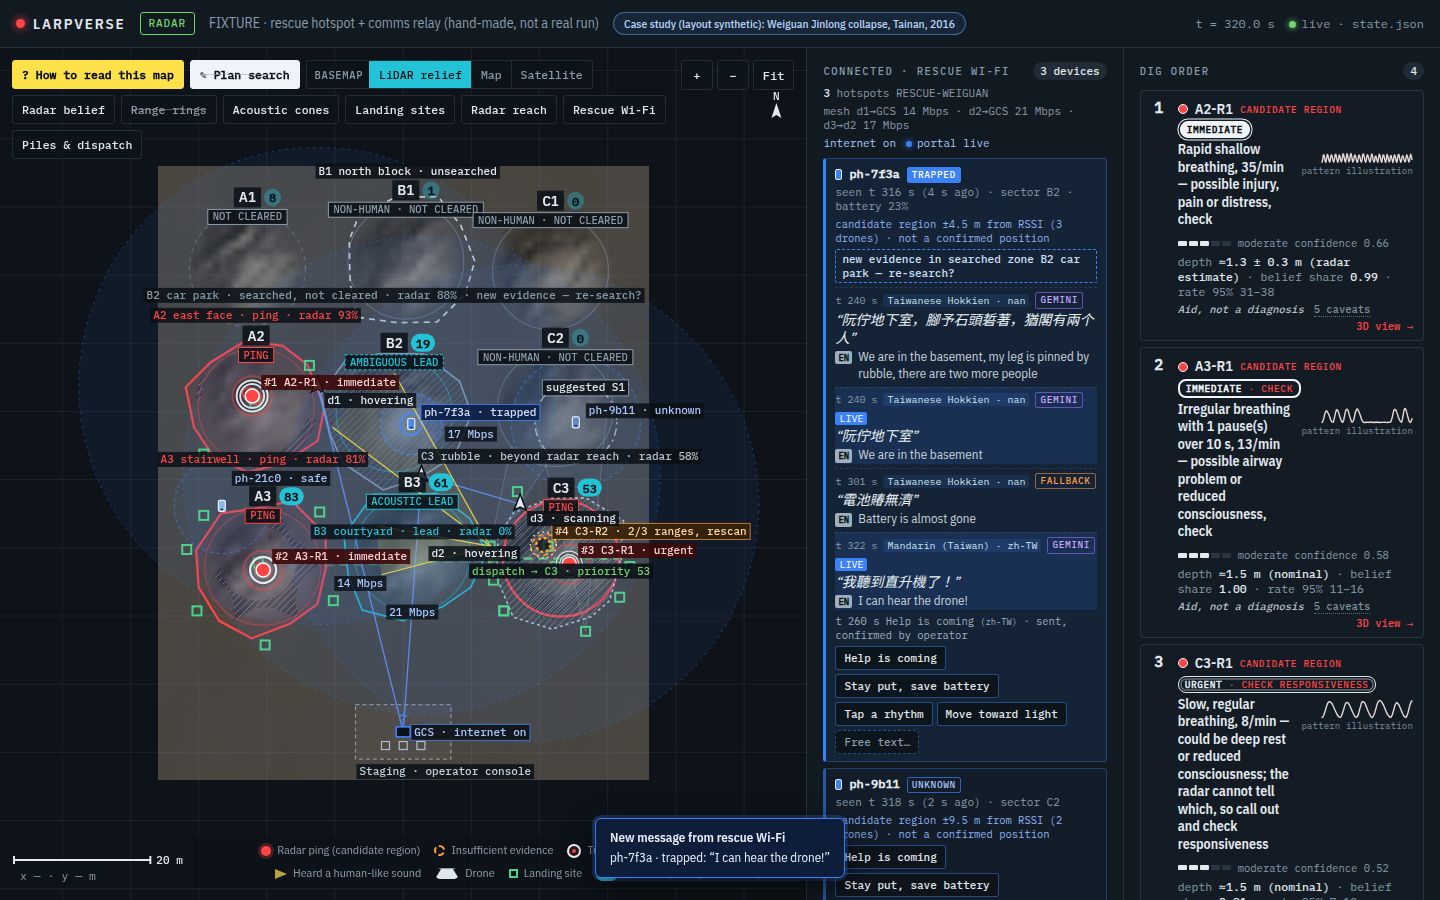
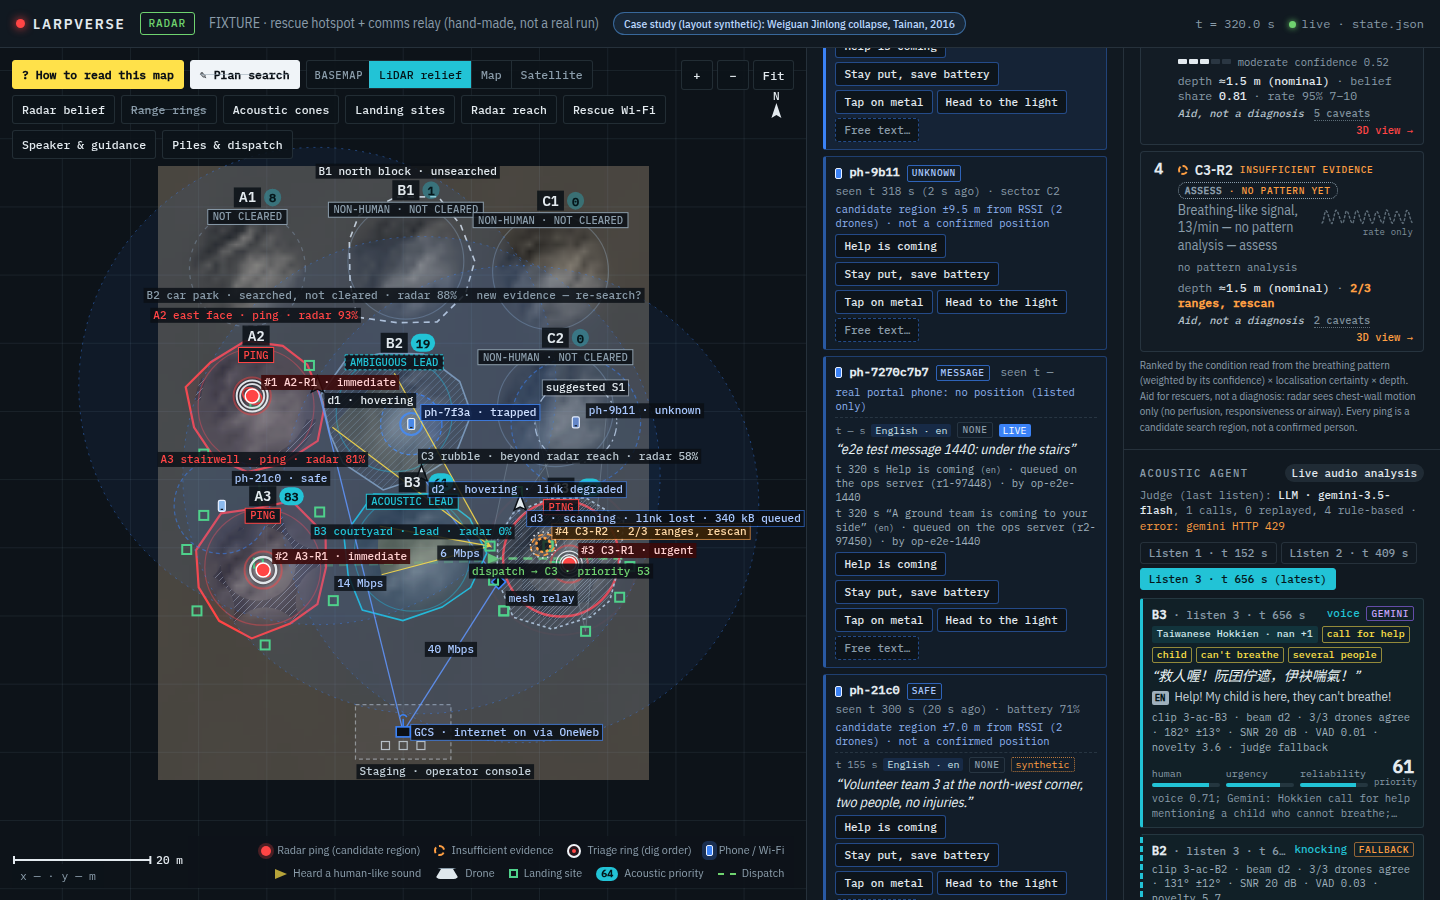
larpverse: dashboard: comms v1.4.3: template replies POST /api/comms/reply {device, template|text, lang, confirmed_by} (server keys help_coming/stay_put/tap_metal/head_to_light), free text only after Confirm, server result (queue id, status, operator) replaces the local-only log (kept only when the 
Synced from local HEAD f7b12ad.

diff --git a/larpverse/dashboard/comms.js b/larpverse/dashboard/comms.js
@@ -1,21 +1,39 @@
 // Rescue hotspot + comms relay (contracts/INTERFACES.md "Rescue hotspot and comms relay (v1.4)"). Blue = comms only.
 // Map: hotspot coverage per drone, mesh backhaul links (Mbps) to the GCS, connected-phone candidate regions (σ).
 // Rail: "Connected" panel with each device's status, messages (original + translation + who translated) and replies
-// from VETTED TEMPLATES only. Free text is held as "needs operator confirmation". Replies are recorded to a local log
-// in this browser (no send endpoint yet). Live: polls GET /api/portal when the ops server offers it and toasts new
-// submissions. A phone position is a consent-based candidate region from multi-drone RSSI, never a confirmed position.
+// from VETTED TEMPLATES only, sent with POST /api/comms/reply (ops server, localhost only). Free text is held as
+// "needs operator confirmation" and is sent only after Confirm (with confirmed_by). Without the ops server a reply is
+// kept in a local log and says so. Live: polls GET /api/portal and toasts new submissions; real portal phones
+// (devices[].live) have no position and are listed only. A phone position is a consent-based candidate region from
+// multi-drone RSSI, never a confirmed position; phone evidence raises a LEAD, never a ping.
 
 export const BLUE = '#3b82f6';
-const LS = 'larpverse.comms.replies.v1', POLL_MS = 3000, RETRY_MS = 60000;
+const LS = 'larpverse.comms.replies.v1', LS_OP = 'larpverse.operator.name', POLL_MS = 2000, RETRY_MS = 60000;
 const esc = s => String(s ?? '').replace(/[&<>"]/g, c => ({ '&': '&amp;', '<': '&lt;', '>': '&gt;', '"': '&quot;' }[c]));
 const lsGet = () => { try { return JSON.parse(localStorage.getItem(LS) || '[]'); } catch { return []; } };
+const lsGet2 = k => { try { return localStorage.getItem(k) || ''; } catch { return ''; } };
+const lsSet2 = (k, v) => { try { localStorage.setItem(k, v); } catch { /* private mode */ } };
 const lsSet = v => { try { localStorage.setItem(LS, JSON.stringify(v.slice(-200))); } catch { /* private mode */ } };
-export const TEMPLATES = {
-  help_coming: { label: 'Help is coming', en: 'Help is coming. Rescuers know where you are.' },
-  stay_put_save_battery: { label: 'Stay put, save battery', en: 'Stay where you are if it is safe. Save battery: dim the screen and reply only when asked.' },
-  tap_rhythm: { label: 'Tap a rhythm', en: 'If you can, tap 3 times on metal or concrete, then wait. Repeat every minute.' },
-  move_to_light: { label: 'Move toward light', en: 'Only if you can move safely: move toward light or open air, then stay still.' },
+export const TEMPLATES = {   // keys and English from sim/comms.REPLY_TEMPLATES (the server renders every language)
+  help_coming: { label: 'Help is coming', en: 'Help is coming. Your message reached the rescue team.' },
+  stay_put: { label: 'Stay put, save battery', en: 'Stay where you are and conserve your phone battery.' },
+  tap_metal: { label: 'Tap on metal', en: 'If you can, tap a rhythm on metal or a pipe so we can hear you.' },
+  head_to_light: { label: 'Head to the light', en: 'If you can move safely, head toward the blue light or the exit.' },
 };
+const REPLY_LANGS = ['zh-TW', 'nan-TW', 'en', 'id', 'vi', 'tl'];
+const replyLang = l => { const c = String(l || '').trim(); if (REPLY_LANGS.includes(c)) return c; const b = c.toLowerCase().split('-')[0]; return { zh: 'zh-TW', cmn: 'zh-TW', nan: 'nan-TW', fil: 'tl' }[b] || (REPLY_LANGS.includes(b) ? b : 'en'); };
+const UPLINK = { oneweb: 'OneWeb', lte: 'LTE', starlink: 'Starlink' };
+export const uplinkText = bh => (!bh ? '' : bh.internet === false || bh.uplink === null && bh.internet == null ? 'internet off (local only)' : `internet ${bh.internet === false ? 'off' : 'on'}${bh.uplink ? ' via ' + (UPLINK[bh.uplink] || bh.uplink) : ''}`);
+// drones[].link chip (fleet rows) and the comms evidence chip on pile rows
+export function linkChip(d) {
+  if (!d?.link) return '';
+  const q = d.queued_kb ? ` · ${Math.round(d.queued_kb)} kB queued` : '';
+  return `<span class="lnk l-${esc(d.link)}" title="mesh link ${esc(d.link)}${d.last_link_t != null ? ', last contact t ' + Math.round(d.last_link_t) + ' s' : ''}${q ? '; data held on board, forwarded when the link is back' : ''}">link ${esc(d.link)}${esc(q)}</span>`;
+}
+export function evidenceChip(p) {
+  const e = p?.comms_evidence; if (!e) return '';
+  return `<span class="cev" title="A phone on the rescue Wi-Fi${e.t != null ? ' at t ' + Math.round(e.t) + ' s' : ''}${e.sigma_m != null ? ', ±' + (+e.sigma_m).toFixed(0) + ' m' : ''}. Phone evidence raises a lead only, never a ping: a buried phone nearby and a phone in the open further away can look alike.">phone ${esc(e.status || 'connected')} · ${esc(e.device || '')} · lead</span>`;
+}
 const STATUS = { trapped: ['trapped', 'Says they are trapped'], safe: ['safe', 'Says they are safe'], unknown: ['unknown', 'No answer yet'] };
 const LANG = { zh: 'Mandarin', 'zh-tw': 'Mandarin (Taiwan)', nan: 'Taiwanese Hokkien', en: 'English', id: 'Indonesian', vi: 'Vietnamese', tl: 'Tagalog', th: 'Thai', ja: 'Japanese' };
 const lname = c => (c ? LANG[String(c).toLowerCase()] || LANG[String(c).toLowerCase().split('-')[0]] || c : '');
@@ -34,13 +52,14 @@ export const devicesIn = (S, zone) => (S?.comms?.devices || []).filter(d => d.es
 
 export function createComms(app) {
   // app: { S(), toPx, scale(), ctx(), qLabel, font, $, draw() }
-  const C = { log: lsGet(), live: null, liveSubs: [], seen: new Set(), first: true, pollT: null, open: new Set(), draft: {} };
+  const C = { err: {}, log: lsGet(), live: null, liveSubs: [], seen: new Set(), first: true, pollT: null, open: new Set(), draft: {} };
   const $ = app.$;
 
   // ---------- map ----------
   function nodeXY(S, id) {
     const cm = S.comms || {};
     if (id === 'gcs') return cm.backhaul?.gcs_xy || S.staging?.xy || null;
+    if (id === 'relay') return cm.backhaul?.relay_xy || null;
     const dr = (S.drones || []).find(d => d.id === id); if (dr) return [dr.pose[0], dr.pose[1]];
     const h = (cm.hotspots || []).find(h => h.drone_id === id); return h?.xy || null;
   }
@@ -65,11 +84,17 @@ export function createComms(app) {
       const [x, y] = app.toPx(...g);
       ctx.save(); ctx.fillStyle = '#0b1016'; ctx.strokeStyle = BLUE; ctx.lineWidth = 1.6; ctx.fillRect(x - 7, y - 5, 14, 10); ctx.strokeRect(x - 7, y - 5, 14, 10);
       ctx.beginPath(); ctx.moveTo(x, y - 5); ctx.lineTo(x, y - 13); ctx.stroke(); ctx.beginPath(); ctx.arc(x, y - 13, 4, Math.PI * 1.15, Math.PI * 1.85); ctx.stroke(); ctx.restore();
-      const net = cm.backhaul?.internet;
-      app.qLabel(`GCS · internet ${net ? 'on' : 'off'}`, x + 11, y + 4, net ? '#a9c8ff' : '#8a9caa', 'rgba(11,16,22,0.88)', 3, net ? 'rgba(59,130,246,0.7)' : 'rgba(138,156,170,0.5)');
+      const net = cm.backhaul?.internet !== false && !(cm.backhaul?.uplink === null && cm.backhaul?.internet == null);
+      app.qLabel(`GCS · ${uplinkText(cm.backhaul)}`, x + 11, y + 4, net ? '#a9c8ff' : '#8a9caa', 'rgba(11,16,22,0.88)', 3, net ? 'rgba(59,130,246,0.7)' : 'rgba(138,156,170,0.5)');
+    }
+    const rl = cm.backhaul?.relay_xy;
+    if (rl) {
+      const [x, y] = app.toPx(...rl);
+      ctx.save(); ctx.fillStyle = '#0b1016'; ctx.strokeStyle = BLUE; ctx.lineWidth = 1.6; ctx.beginPath(); ctx.moveTo(x, y - 7); ctx.lineTo(x + 7, y); ctx.lineTo(x, y + 7); ctx.lineTo(x - 7, y); ctx.closePath(); ctx.fill(); ctx.stroke(); ctx.restore();
+      app.qLabel('mesh relay', x + 10, y + 4, '#a9c8ff', 'rgba(11,16,22,0.86)', 5);
     }
     for (const d of cm.devices || []) {
-      if (!d.est_xy) continue;
+      if (!d.est_xy || d.live) continue;      // real portal phones carry no RSSI position: list only
       const [x, y] = app.toPx(...d.est_xy), st = d.status || 'unknown', trapped = st === 'trapped';
       const r = (d.est_sigma_m || 5) * sc;
       ctx.save(); ctx.beginPath(); ctx.arc(x, y, Math.max(6, r), 0, Math.PI * 2); ctx.fillStyle = trapped ? 'rgba(59,130,246,0.14)' : 'rgba(59,130,246,0.06)'; ctx.fill();
@@ -98,7 +123,7 @@ export function createComms(app) {
   }
   function render(force = false) {
     const S = app.S(), sec = $('secComms'); if (!sec) return;
-    const host = $('comms'), ae = document.activeElement;
+    const host = $('secComms'), ae = document.activeElement;
     if (host && host.contains(ae) && /INPUT|TEXTAREA|SELECT/.test(ae.tagName) && !force) { deferred = true; return; }
     deferred = false;
     const cm = S?.comms, ds = devices(S);
@@ -107,7 +132,8 @@ export function createComms(app) {
     const bh = cm?.backhaul, links = (bh?.links || []).map(l => `${esc(l.from)}→${esc(l.to === 'gcs' ? 'GCS' : l.to)}${l.mbps != null ? ' ' + (+l.mbps).toFixed(0) + ' Mbps' : ''}`).join(' · ');
     const hs = (cm?.hotspots || []).filter(h => h.on !== false);
     $('commsMeta').innerHTML = `${hs.length ? `<span><b>${hs.length}</b> hotspot${hs.length > 1 ? 's' : ''} ${esc(hs[0].ssid || '')}</span>` : ''}${links ? `<span>mesh ${links}</span>` : ''}`
-      + `${bh ? `<span class="net ${bh.internet ? 'on' : ''}">internet ${bh.internet ? 'on' : 'off'}</span>` : ''}`
+      + `${bh ? `<span class="net ${bh.internet !== false ? 'on' : ''}">${esc(uplinkText(bh))}</span>` : ''}${bh?.relay_xy ? '<span>relay node dropped</span>' : ''}`
+      + `<label class="opn">operator <input data-f="op" maxlength="40" value="${esc(lsGet2(LS_OP))}" placeholder="name"></label>`
       + `<span class="live ${C.live ? 'on' : ''}" title="${C.live ? 'Polling GET /api/portal' : 'No /api/portal on this server: showing state.json only'}">${C.live ? 'portal live' : 'portal feed off'}</span>`;
     $('comms').innerHTML = ds.length ? ds.map(d => card(S, d)).join('') : '<p class="empty">No phone has joined the rescue Wi-Fi yet.</p>';
   }
@@ -116,34 +142,61 @@ export function createComms(app) {
     const reps = [...(d.replies || []).map(r => ({ ...r, src: 'state' })), ...C.log.filter(r => r.device === d.id)].sort((a, b) => (a.t ?? 0) - (b.t ?? 0));
     const nDr = new Set((d.rssi || []).map(r => r.drone_id)).size;
     return `<div class="dev s-${esc(st)}" data-dev="${esc(d.id)}">
-      <div class="dh"><i class="ph"></i><b>${esc(d.id)}</b><span class="chip st">${esc(STATUS[st]?.[0] || st)}</span>
+      <div class="dh"><i class="ph"></i><b>${esc(d.id)}</b><span class="chip st">${esc(STATUS[st]?.[0] || st)}</span>${d.live ? '<span class="chip lv" title="A real phone on the demo portal: no RSSI position">live portal</span>' : ''}
         <span class="mut">seen t ${d.last_seen != null ? Math.round(d.last_seen) + ' s' : '—'}${esc(ago(S, d.last_seen))}${d.pile ? ' · sector ' + esc(d.pile) : ''}${d.battery_pct != null ? ' · battery ' + Math.round(d.battery_pct) + '%' : ''}</span></div>
-      ${d.est_xy ? `<div class="pos">candidate region ±${(+(d.est_sigma_m ?? 0)).toFixed(1)} m from RSSI${nDr ? ` (${nDr} drone${nDr > 1 ? 's' : ''})` : ''} · not a confirmed position</div>` : d.portal_only ? '<div class="pos">portal submission only: no position yet</div>' : ''}
+      ${d.est_xy && !d.live ? `<div class="pos">candidate region ±${(+(d.est_sigma_m ?? 0)).toFixed(1)} m from RSSI${nDr ? ` (${nDr} drone${nDr > 1 ? 's' : ''})` : ''} · not a confirmed position</div>` : d.live || d.portal_only ? '<div class="pos">real portal phone: no position (listed only)</div>' : ''}
       ${ev.map(e => `<div class="ev">new evidence in searched ${e.kind} ${esc(e.name)} — re-search?</div>`).join('')}
-      ${ms.map(m => `<div class="msg${m.live ? ' new' : ''}"><div class="mh"><span class="t">t ${m.t != null ? Math.round(m.t) : '—'} s</span>${m.lang ? `<span class="lg">${esc(lname(m.lang))} · ${esc(m.lang)}</span>` : ''}<span class="by ${m.by === 'gemini' ? 'llm' : m.by === 'fallback' ? 'fb' : ''}" title="translation by ${esc(m.by || 'none')}">${esc(m.by === 'gemini' ? 'Gemini' : m.by || 'none')}</span>${m.live ? '<span class="nw">live</span>' : ''}</div>
+      ${ms.map(m => `<div class="msg${m.live ? ' new' : ''}"><div class="mh"><span class="t">t ${m.t != null ? Math.round(m.t) : '—'} s</span>${m.lang ? `<span class="lg">${esc(lname(m.lang))} · ${esc(m.lang)}</span>` : ''}<span class="by ${m.by === 'gemini' ? 'llm' : m.by === 'fallback' ? 'fb' : ''}" title="translation by ${esc(m.by || 'none')}">${esc(m.by === 'gemini' ? 'Gemini' : m.by || 'none')}</span>${m.synthetic ? '<span class="syn" title="simulated message">synthetic</span>' : ''}${m.live ? '<span class="nw">live</span>' : ''}</div>
           <q${m.lang ? ` lang="${esc(m.lang)}"` : ''}>${esc(m.text)}</q>${m.translation && m.translation !== m.text ? `<div class="tr"><span>EN</span>${esc(m.translation)}</div>` : ''}</div>`).join('')}
-      ${reps.length ? `<div class="reps">${reps.map(r => `<div class="rep ${r.pending ? 'pend' : ''}"><span>t ${r.t != null ? Math.round(r.t) : '—'} s</span> ${r.template ? esc(TEMPLATES[r.template]?.label || r.template) : `“${esc(r.text)}”`}${r.lang ? ` <small>(${esc(r.lang)})</small>` : ''} · ${r.pending ? '<b>needs operator confirmation</b> <button class="btn sm" data-act="confirm" data-k="' + esc(r.k) + '">Confirm</button>' : r.src === 'state' ? `sent${r.confirmed_by ? ', confirmed by ' + esc(r.confirmed_by) : ''}` : 'recorded locally (not sent: no send endpoint yet)'}</div>`).join('')}</div>` : ''}
+      ${reps.length ? `<div class="reps">${reps.map(r => `<div class="rep ${r.pending ? 'pend' : ''} ${r.error ? 'err' : ''}" title="${esc(r.text || '')}"><span>t ${r.t != null ? Math.round(r.t) : '—'} s</span> ${r.template ? esc(TEMPLATES[r.template]?.label || r.template) : `“${esc(r.text)}”`}${r.lang ? ` <small>(${esc(r.lang)})</small>` : ''} · ${repState(r)}</div>`).join('')}</div>` : ''}
+      ${C.err[d.id] ? `<div class="rerr">${esc(C.err[d.id])}</div>` : ''}
       <div class="tpl">${Object.entries(TEMPLATES).map(([k, t]) => `<button class="btn sm" data-act="tpl" data-t="${k}" title="${esc(t.en)}${lang ? ' (sent in ' + esc(lname(lang)) + ')' : ''}">${esc(t.label)}</button>`).join('')}
         <button class="btn sm ghost" data-act="free">Free text…</button></div>
       ${C.open.has(d.id) ? `<div class="free"><input aria-label="Free-text reply" maxlength="200" placeholder="Free text: held until an operator confirms" value="${esc(C.draft[d.id] || '')}"><button class="btn sm" data-act="hold">Hold for confirmation</button></div>` : ''}
     </div>`;
   }
+  function repState(r) {
+    if (r.pending) return `<b>needs operator confirmation</b> <button class="btn sm" data-act="confirm" data-k="${esc(r.k)}">Confirm &amp; send</button>`;
+    if (r.src === 'state') return `sent${r.confirmed_by ? ', confirmed by ' + esc(r.confirmed_by) : ''}`;
+    if (r.sending) return 'sending…';
+    if (r.server) return `${esc(r.server.status || 'queued')} on the ops server (${esc(r.server.id || '')}) · by ${esc(r.server.confirmed_by || r.confirmed_by || '')}`;
+    if (r.error) return `<b>not sent</b>: ${esc(r.error)}`;
+    return 'kept locally: ops server unreachable (python3 scripts/serve.py)';
+  }
+  const langOf = dev => { const S = app.S(); return replyLang([...msgsOf((S?.comms?.devices || []).find(d => d.id === dev) || { id: dev })].reverse().find(m => m.lang)?.lang); };
+  async function send(r) {
+    const op = lsGet2(LS_OP).trim();
+    if (!op) { C.err[r.device] = 'Enter your operator name at the top of this panel: every reply is attributed.'; render(true); return false; }
+    r.sending = true; r.error = null; r.confirmed_by = op; C.err[r.device] = ''; lsSet(C.log); render(true);
+    const body = { device: r.device, lang: r.lang, confirmed_by: op, ...(r.template ? { template: r.template } : { text: r.text }) };
+    try {
+      const res = await fetch('/api/comms/reply', { method: 'POST', headers: { 'Content-Type': 'application/json' }, body: JSON.stringify(body) });
+      const doc = await res.json().catch(() => ({}));
+      r.sending = false;
+      if (!res.ok) { r.error = doc.error || `HTTP ${res.status}`; }
+      else { r.server = { id: doc.id, status: doc.status, confirmed_by: doc.confirmed_by }; if (doc.text) r.text = doc.text; if (doc.t != null) r.t = doc.t; }
+    } catch { r.sending = false; r.offline = true; }
+    lsSet(C.log); render(true); return true;
+  }
   function record(dev, r) {
-    const S = app.S(); const lang = [...msgsOf((S?.comms?.devices || []).find(d => d.id === dev) || { id: dev })].reverse().find(m => m.lang)?.lang || null;
-    C.log.push({ k: Math.random().toString(36).slice(2, 9), device: dev, t: S?.t ?? null, lang, ...r }); lsSet(C.log); render();
+    const S = app.S();
+    const item = { k: Math.random().toString(36).slice(2, 9), device: dev, t: S?.t ?? null, lang: langOf(dev), ...r };
+    C.log.push(item); lsSet(C.log); render(true);
+    if (!item.pending) send(item);
   }
   let deferred = false;
   function bind() {
-    $('comms').addEventListener('focusout', () => setTimeout(() => { if (deferred) render(); }, 0));
+    $('secComms').addEventListener('focusout', () => setTimeout(() => { if (deferred) render(); }, 0));
     $('comms').addEventListener('click', e => {
       const b = e.target.closest('[data-act]'); if (!b) return; const dev = b.closest('[data-dev]')?.dataset.dev;
       const a = b.dataset.act;
-      if (a === 'tpl') record(dev, { template: b.dataset.t, confirmed_by: 'operator' });
+      if (a === 'tpl') record(dev, { template: b.dataset.t });
       else if (a === 'free') { C.open.has(dev) ? C.open.delete(dev) : C.open.add(dev); render(true); }
       else if (a === 'hold') { const v = (b.parentElement.querySelector('input')?.value || '').trim(); if (!v) return; C.draft[dev] = ''; C.open.delete(dev); record(dev, { text: v, pending: true }); render(true); }
-      else if (a === 'confirm') { const r = C.log.find(r => r.k === b.dataset.k); if (r) { r.pending = false; r.confirmed_by = 'operator'; lsSet(C.log); render(); } }
+      else if (a === 'confirm') { const r = C.log.find(r => r.k === b.dataset.k); if (r) { r.pending = false; send(r).then(ok => { if (!ok) { r.pending = true; render(true); } }); } }
     });
     $('comms').addEventListener('input', e => { const dev = e.target.closest('[data-dev]')?.dataset.dev; if (dev) C.draft[dev] = e.target.value; });
+    $('commsMeta').addEventListener('input', e => { if (e.target.dataset.f === 'op') lsSet2(LS_OP, e.target.value.trim()); });
     $('toast').addEventListener('click', () => { $('toast').hidden = true; $('secComms').scrollIntoView({ behavior: 'smooth', block: 'start' }); });
   }
 

diff --git a/larpverse/dashboard/app.js b/larpverse/dashboard/app.js
@@ -6,7 +6,7 @@
 // #ping=<id> opens that ping's detail view. A missing state file shows the demo state.
 import { demoState, demoCloud } from './demo.js';
 import { createTasking, reconText } from './tasking.js';
-import { createComms } from './comms.js';
+import { createComms, linkChip, evidenceChip } from './comms.js';
 import { createSpeaker, respChip } from './speaker.js';
 import { digScore, triageOf, conditionOf, conditionLabel, confMeter, rateOf, spark, caveatsOf, triageChip, drawTriageRing, ALWAYS } from './vitals.js';
 
@@ -459,13 +459,14 @@ function draw(now = performance.now()) {
       ctx.save(); ctx.strokeStyle = 'rgba(227,234,239,0.8)'; ctx.lineWidth = 1.2; ctx.beginPath(); ctx.arc(x, y, 13, -0.35 * Math.PI, 0.35 * Math.PI); ctx.stroke();
       ctx.beginPath(); ctx.arc(x, y, 13, 0.65 * Math.PI, 1.35 * Math.PI); ctx.stroke(); ctx.restore();
     } else { ctx.fillStyle = COL.fg; ctx.fill(); ctx.strokeStyle = '#0b1016'; ctx.lineWidth = 1.5; ctx.stroke(); ctx.restore(); }
-    const g = groups.find(g => g.state === d.state && Math.hypot(g.lx - x, g.ly - y) < 26);
-    if (g) { g.ids.push(d.id); g.x = Math.min(g.x, x); g.lx = x; g.ly = y; } else groups.push({ state: d.state, ids: [d.id], x, y, lx: x, ly: y });
+    const lk = d.link && d.link !== 'ok' ? `link ${d.link}${d.queued_kb ? ' · ' + Math.round(d.queued_kb) + ' kB queued' : ''}` : '';
+    const g = !lk && groups.find(g => g.state === d.state && !g.lk && Math.hypot(g.lx - x, g.ly - y) < 26);
+    if (g) { g.ids.push(d.id); g.x = Math.min(g.x, x); g.lx = x; g.ly = y; } else groups.push({ state: d.state, ids: [d.id], x, y, lx: x, ly: y, lk });
   }
   for (const g of groups) {
     const n = g.ids.map(i => +i.replace(/\D/g, '')), seq = g.ids.length > 2 && n.every((v, k) => k === 0 || v === n[k - 1] + 1);
     const ids = seq ? `${g.ids[0]}–${g.ids[g.ids.length - 1]}` : g.ids.join(' ');
-    qLabel(`${ids} · ${g.state}`, g.x + 10, g.y + 18, COL.fg, undefined, 6);
+    qLabel(`${ids} · ${g.state}${g.lk ? ' · ' + g.lk : ''}`, g.x + 10, g.y + 18, g.lk ? '#a9c8ff' : COL.fg, undefined, 6, g.lk ? 'rgba(59,130,246,0.6)' : null);
   }
   flushLabels();
   scaleBar();
@@ -666,7 +667,7 @@ function renderSide() {
     $('nAc').textContent = ac.length;
     $('acList').innerHTML = ac.length ? ac.map(a => `<div class="ac"><span>${esc(a.drone_id)} · <span class="c">${esc(a.class)}</span></span><span>${a.bearing_deg.toFixed(0)}° ±${(a.width_deg / 2).toFixed(0)} · ${f2(a.confidence)}</span></div>`).join('') : '<p class="empty">Nothing heard yet.</p>';
   }
-  $('fleet').innerHTML = (S.drones || []).map(d => { const b = Math.round((d.battery ?? 0) * 100); return `<div class="fl"><b>${esc(d.id)}</b><span class="st ${esc(d.state)}">${esc(d.state)}</span><span class="bat" title="battery ${b}%"><i style="width:${b}%"></i></span><span class="pc">${b}%</span></div>`; }).join('');
+  $('fleet').innerHTML = (S.drones || []).map(d => { const b = Math.round((d.battery ?? 0) * 100); return `<div class="fl"><b>${esc(d.id)}</b><span class="st ${esc(d.state)}">${esc(d.state)}${linkChip(d)}</span><span class="bat" title="battery ${b}%"><i style="width:${b}%"></i></span><span class="pc">${b}%</span></div>`; }).join('');
   $('next').textContent = S.next_scan ? `Next: ${S.next_scan.drone_id} → ${S.next_scan.site_id} · ${S.next_scan.reason}` : '';
   $('log').innerHTML = (S.log || []).slice(-14).reverse().map(l => `<div><span>${f1(l.t)}s</span><p style="margin:0">${esc(l.msg)}</p></div>`).join('');
 }
@@ -728,7 +729,7 @@ function renderPiles() {
   const row = p => {
     const [txt, , col] = pst(p), amb = pileAmb(p);
     return `<div class="row ${p === topUnvisited ? 'top' : ''} ${vis.includes(p.id) ? 'done' : ''} ${openRows.has(p.id) ? 'open' : ''}" data-pile="${esc(p.id)}" title="Click to expand">
-      <b>${esc(p.id)}</b><span class="why"><span class="chip" style="color:${col};border-color:${col}${amb ? ';border-style:dashed' : ''}">${esc(txt)}</span>${amb ? '<span class="chip amb" title="The drones\' bearings do not single out this pile: the sound may come from a neighbour">ambiguous direction</span>' : ''}${respChip(p.responsiveness || S.responsiveness?.[p.id], true)} ${esc(p.why)}</span>
+      <b>${esc(p.id)}</b><span class="why"><span class="chip" style="color:${col};border-color:${col}${amb ? ';border-style:dashed' : ''}">${esc(txt)}</span>${amb ? '<span class="chip amb" title="The drones\' bearings do not single out this pile: the sound may come from a neighbour">ambiguous direction</span>' : ''}${respChip(p.responsiveness || S.responsiveness?.[p.id], true)}${evidenceChip(p)} ${esc(p.why)}</span>
       <span class="s">${p.priority ?? '—'}</span></div>`;
   };
   $('piles').innerHTML = (visited.length ? `<div class="sub">Searched by the drones</div>${visited.map(row).join('')}` : '')

diff --git a/larpverse/dashboard/style.css b/larpverse/dashboard/style.css
@@ -534,3 +534,15 @@ body.planning #map { cursor: crosshair; }
 .bl .meta { grid-column: 1 / -1; font-size: 10px; color: #7f909c; }
 .bl.s-rejected .txt { text-decoration: line-through; color: var(--muted); }
 .k-guide { width: 30px; height: 0; border-top: 2px dashed #f0f4f8; margin-top: 8px !important; position: relative; }
+/* comms v1.4.3: link status, live phones, synthetic tag, pile evidence, server replies */
+.lnk { display: inline-block; margin-left: 6px; font: 500 9px/1.5 var(--f-mono); letter-spacing: 0.04em; text-transform: none; border: 1px solid rgba(59, 130, 246, 0.6); color: #a9c8ff; border-radius: 2px; padding: 0 4px; white-space: nowrap; }
+.lnk.l-degraded { border-style: dashed; }
+.lnk.l-lost { border-style: dotted; color: var(--radar); border-color: rgba(255, 159, 67, 0.7); }
+.fl .st { display: flex; flex-wrap: wrap; align-items: center; row-gap: 2px; }
+.cev { display: inline-block; font: 500 9.5px/1.5 var(--f-mono); color: #cfe0ff; border: 1px dashed #3b82f6; border-radius: 2px; padding: 0 4px; margin-left: 4px; white-space: nowrap; }
+.dev .chip.lv { color: #fff; border-color: #3b82f6; border-style: dashed; }
+.dev .mh .syn { color: var(--radar); border: 1px dotted rgba(255, 159, 67, 0.7); border-radius: 2px; padding: 0 4px; }
+.dev .rep.err b, .dev .rerr { color: var(--bad, #ff6464); }
+.dev .rerr { font: 11px var(--f-mono); }
+#commsMeta .opn { display: inline-flex; align-items: center; gap: 4px; margin-left: auto; }
+#commsMeta .opn input { width: 90px; height: 22px; background: #0d1319; color: var(--fg); border: 1px solid var(--line); border-radius: 3px; padding: 0 5px; font: 11px var(--f-ui); }
